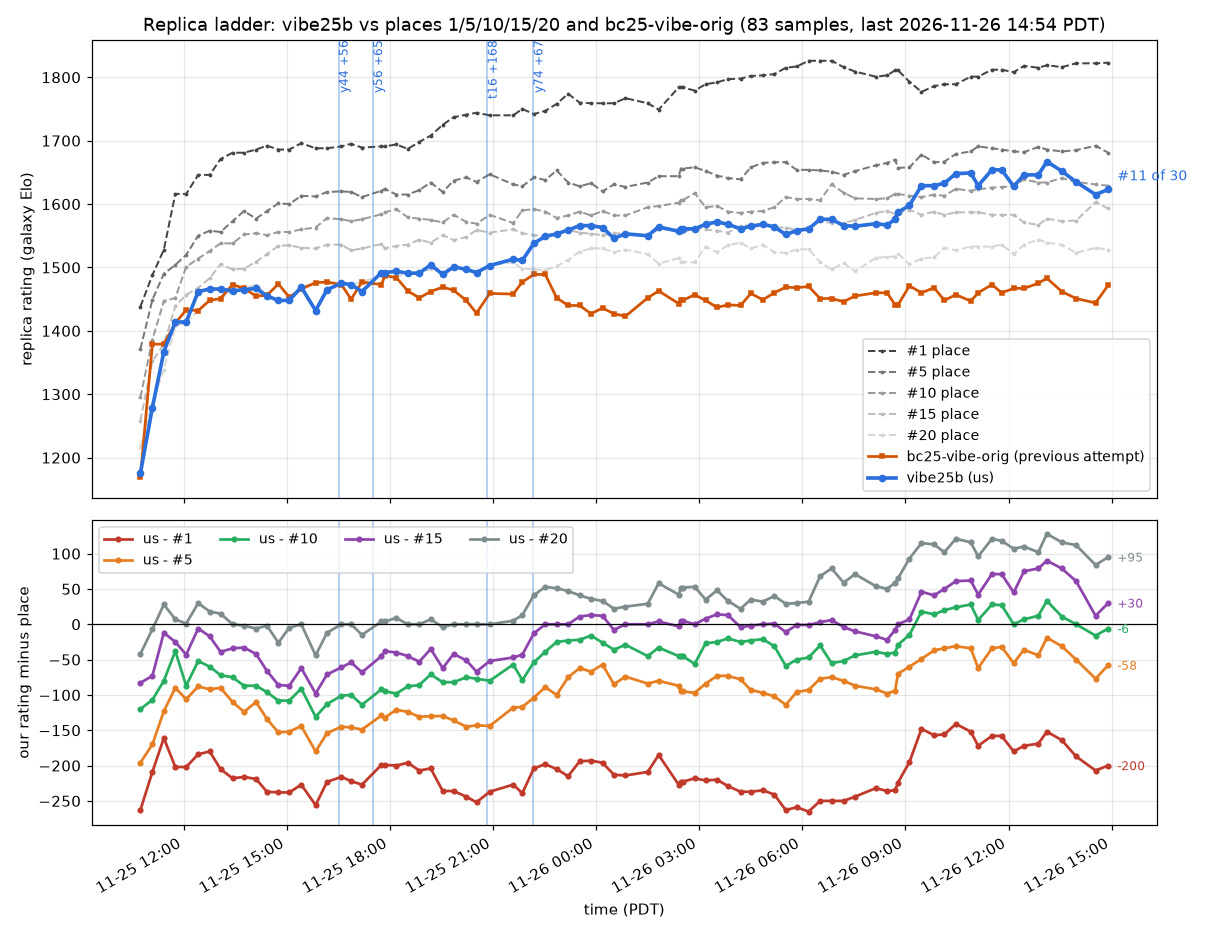
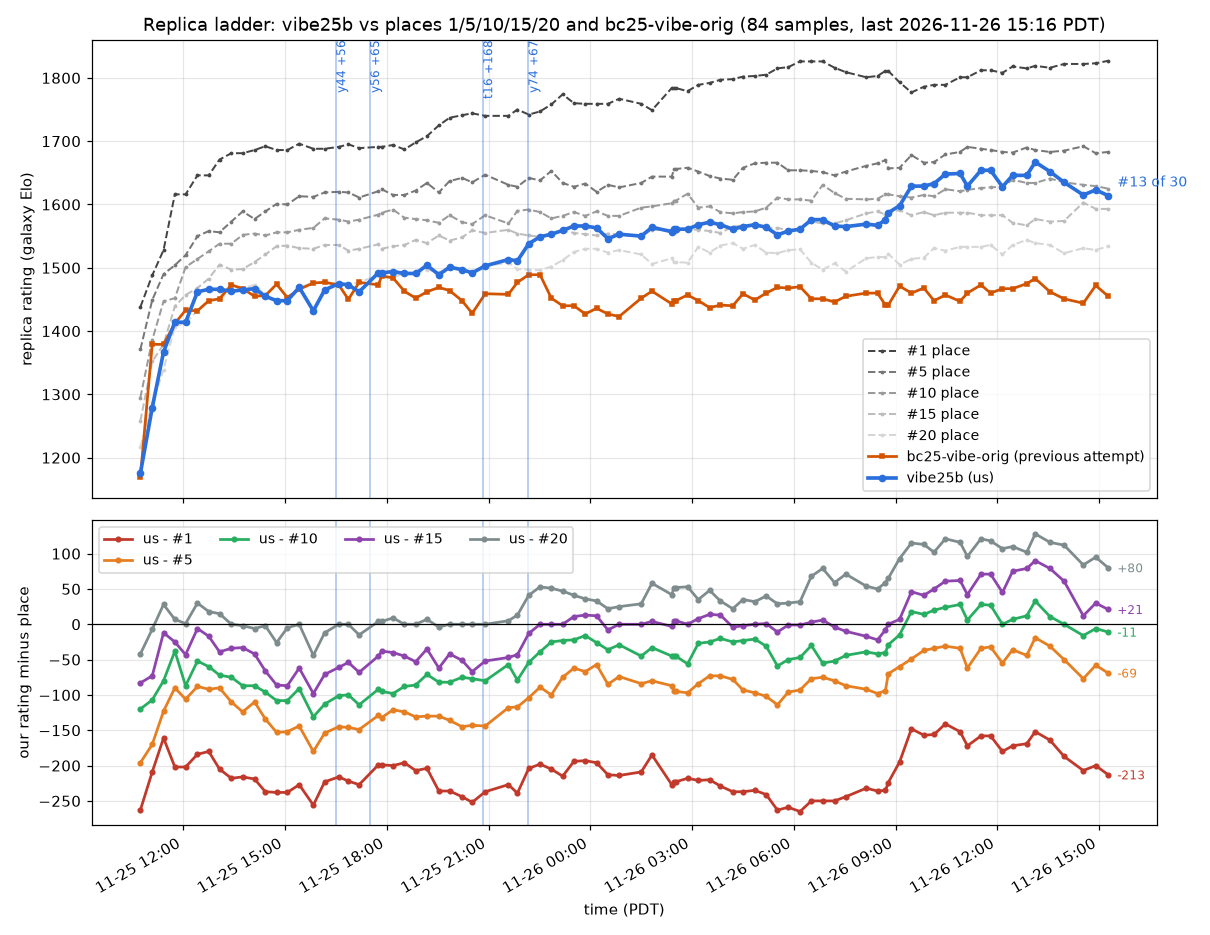
prod: retire y207 (-24), y209 (-23); slots held for field study 8 candidates
Claude-Session: https://claude.ai/code/session_01SzziPSCWtjsjju9cnThDf5

diff --git a/progress/local-elo.md b/progress/local-elo.md
@@ -1,6 +1,6 @@
 # Local tournament Elo
 
-Bradley-Terry ratings of our own bots in the local tournament (`tools/tourney.py`), all 89419 games in one fit as of 2026-11-26 14:59 PDT, so every point is on the same scale; earlier champions are shown at their current rating, and "Gain" is the rating over the champion it replaced. `tools/tourney.py rank` rewrites this table; `tools/tourney.py chart` also redraws the chart.
+Bradley-Terry ratings of our own bots in the local tournament (`tools/tourney.py`), all 90850 games in one fit as of 2026-11-26 15:18 PDT, so every point is on the same scale; earlier champions are shown at their current rating, and "Gain" is the rating over the champion it replaced. `tools/tourney.py rank` rewrites this table; `tools/tourney.py chart` also redraws the chart.
 
 ![local elo](local-elo.png)
 
@@ -24,25 +24,25 @@ Bradley-Terry ratings of our own bots in the local tournament (`tools/tourney.py
 | 2026-11-25 17:30 | y56 | study 3 tactic 4 (tower churn): a drained L1 money tower with intact pattern and an ally adjacent disintegrates at >=2000 chips; adjacent robots re-complete it for a fresh 500 paint on y44 | #47 | 1510 +- 10 | +65 | 1320 |
 | 2026-11-25 18:50 | y58 | study 3 tactic 2 (early soldiers paint patterns not coverage): exploring soldiers paint no coverage before r50 on y56 | #48 | 1529 +- 11 | +19 | 997 |
 | 2026-11-25 19:30 | t04 | t02 (no coverage painting before r80) + t03 (units wait beside drained money towers and repair their pattern so churn fires; study 3 tactics 2 and 4) on y58 | #49 | 1485 +- 11 | -44 | 1065 |
-| 2026-11-25 20:30 | t08 | study 4 2.2 (contested ruins): soldiers skip a ruin with enemy paint in its visible 5x5 (bad for 50 rounds) on t04 | #50 | 1503 +- 13 | +17 | 775 |
+| 2026-11-25 20:30 | t08 | study 4 2.2 (contested ruins): soldiers skip a ruin with enemy paint in its visible 5x5 (bad for 50 rounds) on t04 | #50 | 1502 +- 13 | +17 | 775 |
 | 2026-11-25 20:50 | t16 | t12 (t08 + study 4 2.1 spawn freeze 8 rounds in 20 below 1000+cost) + study 4 2.4 money-first: builds money until 8 towers then paint while paint towers < n/5; paint first only if none (all towers known) on t08 | #51 | 1670 +- 11 | +168 | 1213 |
 | 2026-11-25 21:50 | t20 | study 4 2.3: splashers weight enemy towers 30 (was 12) in the splash score on t16 | #52 | 1663 +- 15 | -7 | 587 |
 | 2026-11-25 22:10 | y74 | unit audit (owner prompt #15): splash-grid bug fix (enemy tiles never scored) + moppers stop once enemy paint is in mop reach; built on t16 on t20 | #53 | 1730 +- 10 | +67 | 1255 |
-| 2026-11-25 23:10 | t25 | unit audit + top teams' unit mix (616 S / 662 X / 701 M): after r80 paint towers cycle soldier-splasher-mopper; money towers keep S M X M S M on y74 | #54 | 1729 +- 13 | -1 | 680 |
+| 2026-11-25 23:10 | t25 | unit audit + top teams' unit mix (616 S / 662 X / 701 M): after r80 paint towers cycle soldier-splasher-mopper; money towers keep S M X M S M on y74 | #54 | 1728 +- 13 | -1 | 680 |
 | 2026-11-25 23:30 | t27 | top teams' splasher-heavy late mix pushed further: paint towers cycle soldier-splasher-splasher-mopper after r80 on t25 | #55 | 1695 +- 9 | -33 | 1554 |
 | 2026-11-26 00:30 | y95 | upgrade spare 1200 (was 800): chips stay for new towers longer on t27 | #56 | 1670 +- 9 | -25 | 1822 |
 | 2026-11-26 02:01 | t36 | late SRPs (study 4 2.6 / study 3 tactic 7): soldiers without a ruin build SRPs on the x%4==2 y%4==2 lattice from r100 with chips>=1000; splashers avoid repainting SRP secondary tiles on y95 | #57 | 1630 +- 11 | -40 | 977 |
-| 2026-11-26 02:50 | y110 | money towers upgrade only with 2500 chips beyond the cost+spare (was 1000): chips go to new towers and SRPs on t36 | #58 | 1589 +- 10 | -42 | 1260 |
-| 2026-11-26 03:30 | t42 | study 4 3.1 recovery: with every tower known and no money tower left the next ruin is a money tower on y110 | #59 | 1569 +- 10 | -20 | 1332 |
-| 2026-11-26 04:10 | t45 | study 3 tactic 1: after r40 towers spawn only with 1000 chips beyond the unit's cost (no 600-chip window) on t42 | #60 | 1575 +- 10 | +6 | 1226 |
-| 2026-11-26 04:50 | t47 | study 3 tactic 5: a mopper due in the cycle spawns even below the 1000 reserve when an enemy robot is within d2 20 of the tower on t45 | #61 | 1556 +- 7 | -19 | 2398 |
-| 2026-11-26 06:30 | t58 | study 5 2.3: a splasher that has not splashed for 8 rounds (while able to) explores instead of chasing the nearest non-ally tile on t47 | #62 | 1580 +- 11 | +24 | 1087 |
-| 2026-11-26 07:10 | t61 | study 5 2.1 (softened): money towers for builds 1-5; then one more paint tower per 4 towers on t58 | #63 | 1579 +- 11 | -1 | 938 |
-| 2026-11-26 07:30 | y155 | study 5 2.1 tuned: money towers for builds 1-6; then one more paint tower per 4 towers on t61 | #64 | 1565 +- 9 | -13 | 1615 |
-| 2026-11-26 08:27 | t70 | y155 + splashers weight enemy towers 30 (t68) + 2000+ chips makes the next tower a paint tower (y159) on y155 | #65 | 1555 +- 7 | -11 | 2530 |
-| 2026-11-26 09:47 | t74 | moppers weight enemy paint near ruins 40 (study 6 2.1c) on t70 | #66 | 1555 +- 8 | +1 | 1768 |
-| 2026-11-26 10:47 | y170 | soldiers make the next tower a paint tower at 1500+ chips (t63 tuning; was 2000) on t74 | #67 | 1556 +- 10 | +1 | 1262 |
-| 2026-11-26 11:27 | t85 | study 6 2.2 ruin denial from where the soldier stands: a soldier with no ruin paints empty tiles of a ruin the enemy is building; without walking to it on y170 | #68 | 1594 +- 7 | +38 | 2556 |
-| 2026-11-26 12:47 | t91 | study 7 2.5: moppers ignore ruins under enemy towers when weighting ruin paint on t85 | #69 | 1598 +- 9 | +3 | 1510 |
-| 2026-11-26 13:27 | y195 | study 7 2.1a: explore unseen tiles first; up to 16 random draws on t91 | #70 | 1621 +- 9 | +24 | 1349 |
-| 2026-11-26 14:12 | y197 | ruin denial stops at 2 of our tiles (tuning of study 6 2.2) on y195 | #71 | 1649 +- 10 | +28 | 1202 |
+| 2026-11-26 02:50 | y110 | money towers upgrade only with 2500 chips beyond the cost+spare (was 1000): chips go to new towers and SRPs on t36 | #58 | 1588 +- 10 | -42 | 1260 |
+| 2026-11-26 03:30 | t42 | study 4 3.1 recovery: with every tower known and no money tower left the next ruin is a money tower on y110 | #59 | 1568 +- 10 | -20 | 1332 |
+| 2026-11-26 04:10 | t45 | study 3 tactic 1: after r40 towers spawn only with 1000 chips beyond the unit's cost (no 600-chip window) on t42 | #60 | 1574 +- 10 | +6 | 1226 |
+| 2026-11-26 04:50 | t47 | study 3 tactic 5: a mopper due in the cycle spawns even below the 1000 reserve when an enemy robot is within d2 20 of the tower on t45 | #61 | 1555 +- 7 | -19 | 2398 |
+| 2026-11-26 06:30 | t58 | study 5 2.3: a splasher that has not splashed for 8 rounds (while able to) explores instead of chasing the nearest non-ally tile on t47 | #62 | 1579 +- 11 | +24 | 1087 |
+| 2026-11-26 07:10 | t61 | study 5 2.1 (softened): money towers for builds 1-5; then one more paint tower per 4 towers on t58 | #63 | 1577 +- 11 | -2 | 938 |
+| 2026-11-26 07:30 | y155 | study 5 2.1 tuned: money towers for builds 1-6; then one more paint tower per 4 towers on t61 | #64 | 1563 +- 9 | -14 | 1615 |
+| 2026-11-26 08:27 | t70 | y155 + splashers weight enemy towers 30 (t68) + 2000+ chips makes the next tower a paint tower (y159) on y155 | #65 | 1552 +- 7 | -11 | 2530 |
+| 2026-11-26 09:47 | t74 | moppers weight enemy paint near ruins 40 (study 6 2.1c) on t70 | #66 | 1552 +- 8 | +0 | 1768 |
+| 2026-11-26 10:47 | y170 | soldiers make the next tower a paint tower at 1500+ chips (t63 tuning; was 2000) on t74 | #67 | 1553 +- 10 | +0 | 1262 |
+| 2026-11-26 11:27 | t85 | study 6 2.2 ruin denial from where the soldier stands: a soldier with no ruin paints empty tiles of a ruin the enemy is building; without walking to it on y170 | #68 | 1590 +- 7 | +37 | 2556 |
+| 2026-11-26 12:47 | t91 | study 7 2.5: moppers ignore ruins under enemy towers when weighting ruin paint on t85 | #69 | 1592 +- 9 | +2 | 1510 |
+| 2026-11-26 13:27 | y195 | study 7 2.1a: explore unseen tiles first; up to 16 random draws on t91 | #70 | 1613 +- 9 | +22 | 1349 |
+| 2026-11-26 14:12 | y197 | ruin denial stops at 2 of our tiles (tuning of study 6 2.2) on y195 | #71 | 1640 +- 9 | +27 | 1662 |
